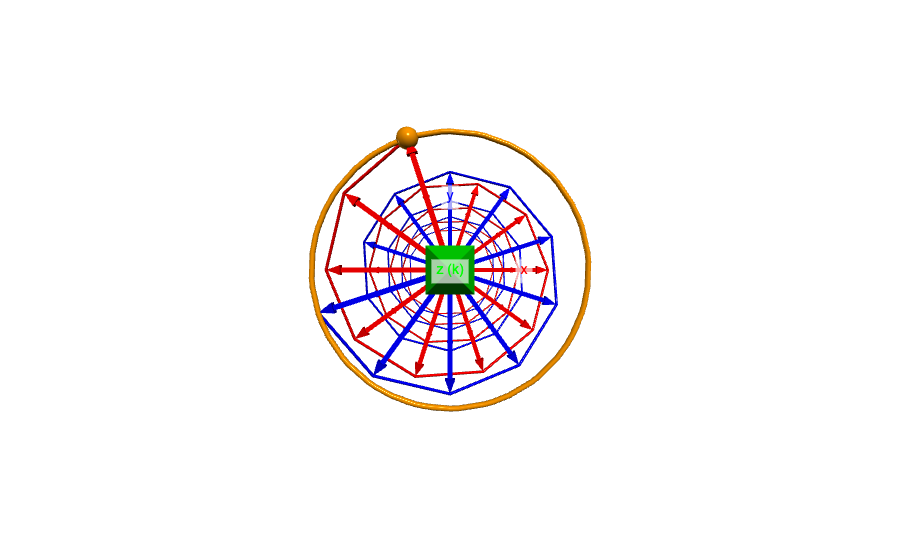
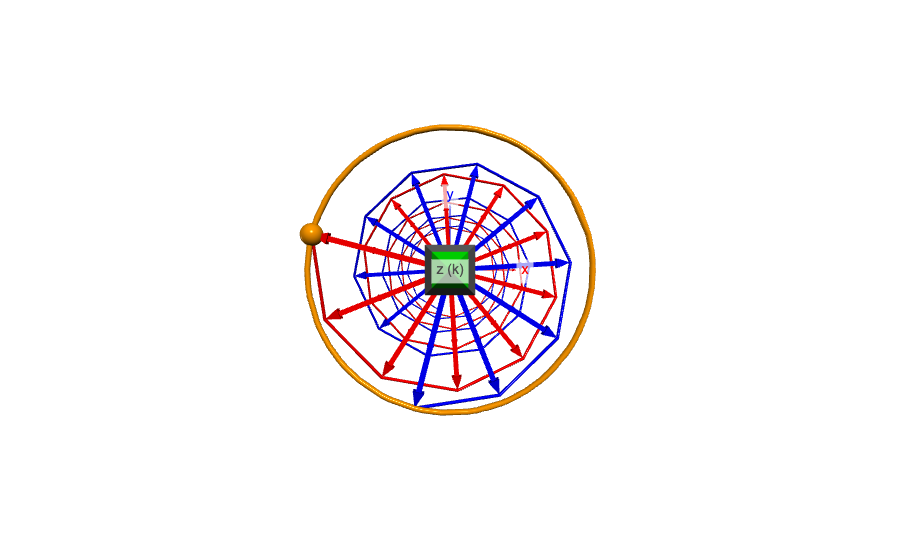
Fix Lab 13 simulation glitches and refresh figures
- Accumulate omega*t so moving the wavelength slider or switching
  direction no longer makes the wave jump
- Keep redrawing while paused so checkboxes, menus and views respond
- Draw the z axis in gray so the green Poynting arrows stand out
- "Face the wave" now looks against the chosen propagation direction
- Recapture figures; note image source and RH/LH naming conventions

Changed region(s): [[0.3111, 0.2074, 0.6844, 0.7704]]

diff --git a/lab-13/em_wave_sim.py b/lab-13/em_wave_sim.py
@@ -24,29 +24,30 @@ dt = 0.02               # time step per frame
 mode = 'Linear (x)'     # polarization
 direction = 1           # +1 : wave travels along +z, -1 : along -z
 running = True
+front_view = False      # True while looking along the z axis
 show_E = True
 show_B = True
 show_S = True
-t = 0.0
+wt = 0.0                # accumulated omega*t, so changing lambda does not make the wave jump
 
 # ------------------------------------------------------------ scene
-scene.title = "EM wave: E (red), B (blue), S = E x B (green)"
+scene.title = "EM wave: E (red), B (blue), S = E x B (green), propagation axis z (gray)"
 scene.width = 900
 scene.height = 540
 scene.background = color.white
-scene.center = vec(0, 0, N * dz / 2)
+scene.center = vec(0, 0, (N - 1) * dz / 2)
 scene.range = 4.2
 scene.forward = vec(-0.6, -0.35, -0.75)
 scene.up = vec(0, 1, 0)
 
-L = N * dz
-# axes: x = E direction, y = B direction (for linear-x), z = propagation
+L = (N - 1) * dz        # length of the sampled wave (8 = 4 wavelengths for lambda = 2)
+# axes: x = E direction, y = B direction (for linear-x), z = propagation (gray, so green is only S)
 arrow(pos=vec(0, 0, 0), axis=vec(1.6, 0, 0), color=color.red, shaftwidth=0.03)
 arrow(pos=vec(0, 0, 0), axis=vec(0, 1.6, 0), color=color.blue, shaftwidth=0.03)
-arrow(pos=vec(0, 0, 0), axis=vec(0, 0, L + 0.4), color=color.green, shaftwidth=0.03)
+arrow(pos=vec(0, 0, 0), axis=vec(0, 0, L + 0.6), color=color.gray(0.45), shaftwidth=0.02)
 label(pos=vec(1.8, 0, 0), text="x", box=False, color=color.red, height=14)
 label(pos=vec(0, 1.8, 0), text="y", box=False, color=color.blue, height=14)
-label(pos=vec(0, 0, L + 0.7), text="z (k)", box=False, color=color.green, height=14)
+label(pos=vec(0, 0, L + 0.9), text="z (k)", box=False, color=color.gray(0.3), height=14)
 
 E_arrows = []
 B_arrows = []
@@ -58,7 +59,7 @@ for i in range(N):
     B_arrows.append(arrow(pos=vec(0, 0, z), axis=vec(0, 0, 0), color=color.blue,
                           shaftwidth=0.04))
     S_arrows.append(arrow(pos=vec(0, 0, z), axis=vec(0, 0, 0), color=color.green,
-                          shaftwidth=0.07))
+                          shaftwidth=0.08, headwidth=0.22, headlength=0.25))
 
 # curves through the arrow tips make the sinusoid easy to see
 E_curve = curve(color=color.red, radius=0.012)
@@ -68,7 +69,7 @@ for i in range(N):
     B_curve.append(pos=vec(0, 0, i * dz))
 
 # tip of E at the last sample point with a trail: shows the tip trajectory (line or circle)
-tip = sphere(pos=vec(0, 0, (N - 1) * dz), radius=0.08, color=color.orange,
+tip = sphere(pos=vec(0, 0, L), radius=0.08, color=color.orange,
              make_trail=True, retain=120, trail_radius=0.02)
 
 # ------------------------------------------------------------ physics
@@ -98,7 +99,13 @@ def set_mode(m):
 
 def set_dir(m):
     global direction
-    direction = 1 if m.selected == '+z' else -1
+    global wt
+    new_direction = 1 if m.selected == '+z' else -1
+    if new_direction != direction:
+        wt = -wt            # keeps phase = k z - direction * wt unchanged, so the wave does not jump
+    direction = new_direction
+    if front_view:
+        view_front(None)    # stay facing the oncoming wave
     tip.clear_trail()
     update_info()
 
@@ -131,13 +138,18 @@ def toggle_S(cb):
 
 
 def view_3d(b):
+    global front_view
+    front_view = False
     scene.forward = vec(-0.6, -0.35, -0.75)
     scene.up = vec(0, 1, 0)
 
 
 def view_front(b):
-    # look at the xy-plane from +z, facing the oncoming wave (clockwise = RH, optics convention)
-    scene.forward = vec(0, 0, -1)
+    # look along the z axis facing the oncoming wave: from +z for a +z wave, from -z for a -z wave
+    # (seen this way RH turns clockwise and LH counter-clockwise, optics convention)
+    global front_view
+    front_view = True
+    scene.forward = vec(0, 0, -direction)
     scene.up = vec(0, 1, 0)
 
 
@@ -156,7 +168,7 @@ checkbox(text="B ", checked=True, bind=toggle_B)
 checkbox(text="S ", checked=True, bind=toggle_S)
 scene.append_to_caption("   View: ")
 button(text="3D", bind=view_3d)
-button(text="Face the wave (from +z)", bind=view_front)
+button(text="Face the wave", bind=view_front)
 scene.append_to_caption("\n\n")
 info = wtext(text="")
 
@@ -184,16 +196,16 @@ update_info()
 # ------------------------------------------------------------ main loop
 while True:
     rate(50)
-    if not running:
-        continue
-    t += dt
-    E_curve.visible = show_E
-    B_curve.visible = show_B
     k = 2 * pi / lam
     omega = c * k                       # c = lambda * f  ->  omega = c k
+    if running:
+        wt += omega * dt
+    # redraw even while paused, so the checkboxes, menus and views still respond
+    E_curve.visible = show_E
+    B_curve.visible = show_B
     for i in range(N):
         z = i * dz
-        phase = k * z - direction * omega * t
+        phase = k * z - direction * wt
         Ex, Ey = E_components(phase)
         Bx, By, Bz = B_from_E(Ex, Ey)
         Ev = vec(Ex, Ey, 0)

diff --git a/lab-13/README.md b/lab-13/README.md
@@ -26,11 +26,13 @@
 ### Part A–C (โปรแกรมเดียว เลือกโหมดจากเมนู)
 [วางลิงก์ GlowScript ที่นี่]
 
-โค้ด: [em_wave_sim.py](em_wave_sim.py) (รันได้ทั้งบน glowscript.org และบนเครื่องด้วย `pip install vpython` แล้ว `python3 em_wave_sim.py`)
+โค้ด: [em_wave_sim.py](em_wave_sim.py) (เขียนให้รันได้ทั้งบน glowscript.org และบนเครื่องด้วย `pip install vpython` แล้ว `python3 em_wave_sim.py`)
 
 ---
 
 ## 3. Results
+
+ภาพทั้งหมดในรายงานนี้จับจากการรันบนเครื่องด้วย VPython 7.6.5 ซึ่งใช้ไลบรารีแสดงผลชุดเดียวกับ GlowScript
 
 ### ค่าพารามิเตอร์ที่ใช้
 
@@ -106,7 +108,7 @@ $$
 
 ![ผลการทดลอง Part A: ลูกศร E และ B ของคลื่น EM](images/lab13-part-A.png)
 
-*รูปที่ 2: คลื่น EM แบบ linear (x) ลูกศรสีแดง = E (แกน x), สีน้ำเงิน = B (แกน y), แกนสีเขียว = ทิศการเคลื่อนที่ z*
+*รูปที่ 2: คลื่น EM แบบ linear (x) ลูกศรสีแดง = E (แกน x), สีน้ำเงิน = B (แกน y), แกนสีเทา = แกน z (ทิศการเคลื่อนที่)*
 
 **สิ่งที่เห็นจากภาพ**
 
@@ -144,7 +146,7 @@ $$
 
 ![ผลการทดลอง Part B: Poynting vector](images/lab13-part-B.png)
 
-*รูปที่ 3: ลูกศรสีเขียวตามแกน z คือ S ∝ E × B*
+*รูปที่ 3: ลูกศรสีเขียวบนแกน z คือ S ∝ E × B หัวลูกศรชี้ไปทาง +z (เข้าหาหัวลูกศรสีเทาของแกน z)*
 
 **สิ่งที่เห็นจากภาพ**
 
@@ -202,7 +204,7 @@ $$
 
 1. ใน Linear (y) E กับ B สลับแกนกับ Part A และ B ชี้ไปทาง −x เมื่อ E ชี้ +y ตรงกับสมการ (11)
 2. ในแบบ circular ลูกศร E ยาวเท่ากันทุกจุด (|E| = E₀) แต่ทิศหมุนไปตาม z จึงเห็นเป็นเกลียว
-3. ทิศการหมุน (มองจาก +z หันหน้าเข้าหาคลื่น): จากสมการ (12) มุมของ E ที่ z คงที่คือ θ = kz − ωt สำหรับ RH ซึ่งลดลงตามเวลา จึงหมุนตามเข็มนาฬิกา ส่วน LH มี θ = −(kz − ωt) จึงหมุนทวนเข็มนาฬิกา ตรงกับที่ใบงานระบุ (ทิศนี้ได้จากสมการ ภาพนิ่งในรูปที่ 6 แสดงได้เพียงว่าเส้นทางเป็นวงกลม)
+3. ทิศการหมุน (มองจาก +z หันหน้าเข้าหาคลื่น): จากสมการ (12) มุมของ E ที่ z คงที่คือ θ = kz − ωt สำหรับ RH ซึ่งลดลงตามเวลา จึงหมุนตามเข็มนาฬิกา ส่วน LH มี θ = −(kz − ωt) จึงหมุนทวนเข็มนาฬิกา ตรงกับที่ใบงานระบุ (ทิศนี้ได้จากสมการ ภาพนิ่งในรูปที่ 6 แสดงได้เพียงว่าเส้นทางเป็นวงกลม) หมายเหตุ: การเรียก RH/LH แบบนี้เป็นแบบที่ใช้ในทัศนศาสตร์ (optics) ส่วนทางวิศวกรรม (IEEE) นิยามโดยมองตามทิศการเคลื่อนที่ของคลื่น จึงเรียกกลับกัน
 4. ในทุกโหมด S ชี้ไปทาง +z เพราะ B คำนวณจากสมการ (10) ทำให้ E × B ขนานกับ k̂ เสมอ
 
 ---
@@ -326,7 +328,7 @@ $$
 | Propagation | เลือกทิศการเคลื่อนที่ +z หรือ −z (คำถามข้อ 5) |
 | Wavelength | ปรับ λ ตั้งแต่ 1 ถึง 4 (f และ ω เปลี่ยนตาม c = λf) |
 | Show E / B / S | เปิดหรือปิดลูกศรแต่ละชนิด (ปิด S = Part A, เปิด S = Part B) |
-| View: 3D / Face the wave | สลับมุมมอง 3 มิติ หรือมองตามแกน z เพื่อดูเส้นทางปลาย E |
+| View: 3D / Face the wave | สลับมุมมอง 3 มิติ หรือมองตามแกน z โดยหันหน้าเข้าหาคลื่นเสมอ (จาก +z หรือ −z ตามทิศที่เลือก) เพื่อดูเส้นทางปลาย E |
 
 ---
 
